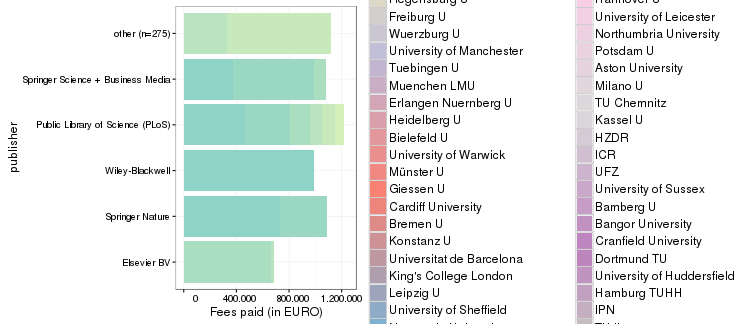
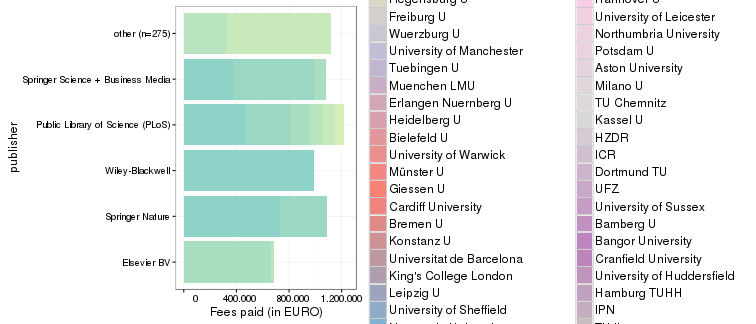
post: dortmund apc data 2016

Changed region(s): [[0.791, 0.4938, 0.9431, 0.8333]]

diff --git a/_posts/2017-05-10-dortmund.md b/_posts/2017-05-10-dortmund.md
@@ -1,0 +1,55 @@
+---
+layout:     post
+author:     Christoph Broschinski
+author_lnk: https://github.com/cbroschinski
+title:      TU Dortmund its 2016 APC expenditures
+date:       2017-05-10 08:00:00
+summary:    
+categories: [general, openAPC]
+comments: true
+---
+
+
+
+
+The [Technische Universität Dortmund](https://www.tu-dortmund.de/uni/Uni/index.html) has updated its APC expenditures. The latest contribution provides data for the 2016 period.
+
+[Dortmund University Library](http://www.ub.tu-dortmund.de/index.html) is in charge of the University's [Open Access Publishing Fund](https://www.ub.uni-dortmund.de/open-access/index.html).
+
+Contact person is [Dr. Kathrin Höhner](mailto:open-access@ub.tu-dortmund.de).
+
+## Cost data
+
+
+
+The new dataset covers publication fees for 11 articles. Total expenditure amounts to 13 127€ and the average fee is 1 193€.
+
+The following table shows the payments Dortmund University Library has made to publishers in 2016.
+
+
+|                                              | Articles| Fees paid in EURO| Mean Fee paid|
+|:---------------------------------------------|--------:|-----------------:|-------------:|
+|Kritische Geographie Berlin e.V.              |        3|              1000|           333|
+|Wiley-Blackwell                               |        2|              3714|          1857|
+|Cogitatio                                     |        1|               952|           952|
+|Frontiers Media SA                            |        1|              2000|          2000|
+|Hindawi Publishing Corporation                |        1|              1618|          1618|
+|International Union of Crystallography (IUCr) |        1|               144|           144|
+|Optical Society of America (OSA)              |        1|              2232|          2232|
+|Springer Nature                               |        1|              1467|          1467|
+
+## Overview
+
+With the recent contribution included, the overall APC data for the TU Dortmund now looks as follows:
+
+### Fees paid per publisher (in EURO)
+
+![plot of chunk tree_dortmund_2017_05_10_full](/figure/tree_dortmund_2017_05_10_full-1.png)
+
+###  Average costs per year (in EURO)
+
+![plot of chunk box_dortmund_2017_05_10_year_full](/figure/box_dortmund_2017_05_10_year_full-1.png)
+
+###  Average costs per publisher (in EURO)
+
+![plot of chunk box_dortmund_2017_05_10_publisher_full](/figure/box_dortmund_2017_05_10_publisher_full-1.png)

diff --git a/about.md b/about.md
@@ -149,13 +149,13 @@ Jisc Collections released data on APC payments made by UK higher education insti
 
 Information on both open access journal articles and open access publication of articles in toll-access journals ("hybrid") are provided.
 
-In total,  57 805 549 € for  31 422 articles were paid by the participating unviversities. Average  fee is 1 839.7 € and the median 1 652 €.
+In total,  57 818 676 € for  31 433 articles were paid by the participating unviversities. Average  fee is 1 839.4 € and the median 1 652 €.
 
 ### Open Access Journals
 
 
 
-At the moment, the dataset releases information on 18 474 articles in open access journals which charge publication fees. Total expenditure amounts to  25 859 808 €. Average  fee is 1 399.8 € and the median 1 332 €.
+At the moment, the dataset releases information on 18 485 articles in open access journals which charge publication fees. Total expenditure amounts to  25 872 934 €. Average  fee is 1 399.7 € and the median 1 332 €.
 
 View dataset on [GitHub](https://github.com/OpenAPC/openapc-de/blob/master/data/apc_de.csv).
 
@@ -171,7 +171,7 @@ View dataset on [GitHub](https://github.com/OpenAPC/openapc-de/blob/master/data/
 |Bremen U                                    |      299|           389,718|         1,303|  1,285|
 |Cardiff University                          |       55|            98,083|         1,783|  1,638|
 |Cranfield University                        |        5|             6,557|         1,311|  1,688|
-|Dortmund TU                                 |       28|            26,410|           943|    826|
+|Dortmund TU                                 |       39|            39,537|         1,014|    952|
 |Duisburg-Essen U                            |      192|           247,364|         1,288|  1,240|
 |Durham University                           |       25|            39,412|         1,576|  1,489|
 |Erlangen Nuernberg U                        |      401|           550,174|         1,372|  1,424|
